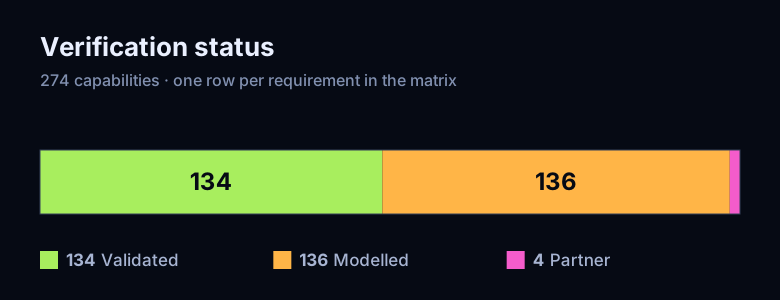
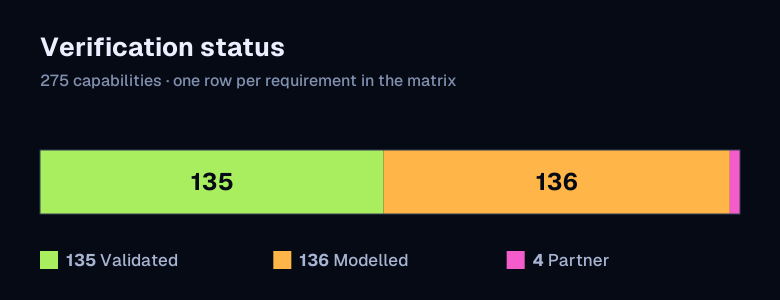
docs: regenerate the ledger, README counts, validation figures and provenance diagram for the SP3 clock row (275 rows: 135 VALIDATED / 136 MODELLED / 4 PARTNER)

diff --git a/README.md b/README.md
@@ -20,7 +20,7 @@
 <p align="center">
   <a href="https://github.com/ashfordeOU/kshana/actions/workflows/ci.yml"><img src="https://img.shields.io/github/actions/workflow/status/ashfordeOU/kshana/ci.yml?branch=main&event=push&label=CI&style=flat-square&labelColor=0A1226" height="18" alt="Continuous integration status on main"></a>
   <a href="docs/COVERAGE.md"><img src="https://img.shields.io/badge/coverage-~95%25-377D0C?style=flat-square&labelColor=0A1226" height="18" alt="Line coverage near 95 % of src/, measured in docs/COVERAGE.md and gated at 85 % in continuous integration"></a>
-  <a href="#evidence"><img src="https://img.shields.io/badge/validated-134%2F274-377D0C?style=flat-square&labelColor=0A1226" height="18" alt="134 of 274 capabilities VALIDATED against an independent external oracle, from the verification matrix"></a>
+  <a href="#evidence"><img src="https://img.shields.io/badge/validated-135%2F275-377D0C?style=flat-square&labelColor=0A1226" height="18" alt="135 of 275 capabilities VALIDATED against an independent external oracle, from the verification matrix"></a>
   <a href="https://sonarcloud.io/summary/overall?id=ashfordeOU_kshana"><img src="https://img.shields.io/sonar/quality_gate/ashfordeOU_kshana?server=https%3A%2F%2Fsonarcloud.io&label=quality&style=flat-square&labelColor=0A1226" height="18" alt="SonarQube Cloud quality gate status"></a>
   <a href="https://github.com/ashfordeOU/kshana/releases"><img src="https://img.shields.io/badge/release-v0.35.0-066A86?style=flat-square&labelColor=0A1226" height="18" alt="Release v0.35.0"></a>
   <a href="LICENSE"><img src="https://img.shields.io/badge/licence-AGPL--3.0-3F4B67?style=flat-square&labelColor=0A1226" height="18" alt="Licence: AGPL-3.0-only"></a>
@@ -133,7 +133,7 @@ them, and you can pin up to four runs and compare them side by side.
 <picture>
   <source media="(prefers-color-scheme: dark)" srcset="docs/assets/readme/studio/studio-home-dark.jpg">
   <source media="(prefers-color-scheme: light)" srcset="docs/assets/readme/studio/studio-home-light.jpg">
-  <img src="docs/assets/readme/studio/studio-home-light.jpg" alt="Kshana Studio, Simple view, opening screen, titled What would you like to find out?, with the engine v0.35.0 live and, in the top bar, three links: Training debrief, Interference map and Receiver trust. Four questions: how many satellites can I see anywhere on Earth, can I trust my position fix, how long can a clock keep time without satellites, and what does a jammer do to my receiver. Below the first, its recorded result: at least 22 satellites in view at every place and 31 on average with GPS, Galileo, BeiDou and GLONASS together, a fix possible at 100 % of places and times, on a world map of satellites in view, with an Open this result button. Beside it, Everything Kshana can do: 16 areas and 139 ready-to-run scenarios, each tile with a small chart from a recorded run and its share of validated methods, and the ledger's 134 of 274 capabilities validated." width="100%">
+  <img src="docs/assets/readme/studio/studio-home-light.jpg" alt="Kshana Studio, Simple view, opening screen, titled What would you like to find out?, with the engine v0.35.0 live and, in the top bar, three links: Training debrief, Interference map and Receiver trust. Four questions: how many satellites can I see anywhere on Earth, can I trust my position fix, how long can a clock keep time without satellites, and what does a jammer do to my receiver. Below the first, its recorded result: at least 22 satellites in view at every place and 31 on average with GPS, Galileo, BeiDou and GLONASS together, a fix possible at 100 % of places and times, on a world map of satellites in view, with an Open this result button. Beside it, Everything Kshana can do: 16 areas and 139 ready-to-run scenarios, each tile with a small chart from a recorded run and its share of validated methods, and the ledger's 135 of 275 capabilities validated." width="100%">
 </picture>
 
 <picture>
@@ -521,7 +521,7 @@ start from.
 
 <p><a href="docs/SGP4-VALIDATION.md"><img src="https://img.shields.io/badge/SGP4-666%2F666%20AIAA%20vectors%20%C2%B7%20worst%204.12%20mm-377D0C?style=flat-square&labelColor=0A1226" alt="SGP4 checked against all 666 AIAA 2006-6753 reference vectors, worst position error 4.12 mm"></a></p>
 
-<strong>134 of 274</strong> capabilities validated against independent external oracles; 136 honestly labelled Modelled.
+<strong>135 of 275</strong> capabilities validated against independent external oracles; 136 honestly labelled Modelled.
 Each row of the verification matrix names a capability, the oracle it is checked against,
 the test that runs the check, and the label that follows. Continuous integration (CI) makes
 it impossible to call a capability VALIDATED without an independent external oracle.
@@ -529,12 +529,12 @@ it impossible to call a capability VALIDATED without an independent external ora
 <picture>
   <source media="(prefers-color-scheme: dark)" srcset="docs/assets/readme/flow-verification-dark.svg">
   <source media="(prefers-color-scheme: light)" srcset="docs/assets/readme/flow-verification-light.svg">
-  <img src="docs/assets/readme/flow-verification-light.svg" alt="How a capability earns its label. Each row of the verification matrix names a capability, the oracle it is checked against, the test that runs the check in continuous integration, and the label that follows. A row may be VALIDATED only with an independent external oracle; otherwise it is MODELLED, or PARTNER when a hardware partner owns it. Example: SGP4/SDP4, Cowell 6-DOF + perturbations, batch/sequential OD, oracle AIAA 2006-6753 SGP4 verification vectors, test tests/sgp4_verification.rs, label VALIDATED. Live counts: 134 VALIDATED, 136 MODELLED, 4 PARTNER of 274 rows. In all, 134 capabilities validated against independent external oracles; 136 more are honestly labelled MODELLED and 4 are PARTNER-owned." width="100%">
+  <img src="docs/assets/readme/flow-verification-light.svg" alt="How a capability earns its label. Each row of the verification matrix names a capability, the oracle it is checked against, the test that runs the check in continuous integration, and the label that follows. A row may be VALIDATED only with an independent external oracle; otherwise it is MODELLED, or PARTNER when a hardware partner owns it. Example: SGP4/SDP4, Cowell 6-DOF + perturbations, batch/sequential OD, oracle AIAA 2006-6753 SGP4 verification vectors, test tests/sgp4_verification.rs, label VALIDATED. Live counts: 135 VALIDATED, 136 MODELLED, 4 PARTNER of 275 rows. In all, 135 capabilities validated against independent external oracles; 136 more are honestly labelled MODELLED and 4 are PARTNER-owned." width="100%">
 </picture>
 
 | Label | Rows | Meaning |
 |---|---|---|
-| VALIDATED | 134 | an independent external oracle agrees: real data, an independent implementation or published reference vectors |
+| VALIDATED | 135 | an independent external oracle agrees: real data, an independent implementation or published reference vectors |
 | MODELLED | 136 | checked against analytic truth or simulation self-consistency, and said out loud |
 | PARTNER | 4 | owned by a hardware partner; Kshana holds no oracle for it |
 
@@ -544,7 +544,7 @@ model to 0.08 m against Orekit 12.2; Galileo to 0.61 m and Swarm-A to 0.10 m aga
 precise ephemerides of the European Space Agency (ESA). Tests hold near 95 % line coverage of
 `src/`, gated at 85 % in CI. The ledger is
 [`docs/VERIFICATION-MATRIX.md`](docs/VERIFICATION-MATRIX.md), generated from
-`src/verification.rs`: the [full 274-row matrix](docs/VERIFICATION-MATRIX.md), and why each
+`src/verification.rs`: the [full 275-row matrix](docs/VERIFICATION-MATRIX.md), and why each
 Modelled row has no external oracle in [`docs/MODELLED-RATIONALE.md`](docs/MODELLED-RATIONALE.md).
 
 <details>
@@ -566,7 +566,7 @@ Modelled row has no external oracle in [`docs/MODELLED-RATIONALE.md`](docs/MODEL
 ### Validation at a glance
 
 Every row is enforced by a named test in CI. This table is a **curated highlight**;
-the full machine-checked matrix is **274 rows — 134 VALIDATED, 136 MODELLED, 4 PARTNER**
+the full machine-checked matrix is **275 rows — 135 VALIDATED, 136 MODELLED, 4 PARTNER**
 (`src/verification.rs`), with the complete evidence (and what is honestly *not* yet
 validated) in [`docs/VALIDATION.md`](docs/VALIDATION.md) and the per-release
 [`kshana-validation-summary.html`](https://github.com/ashfordeOU/kshana/releases)
@@ -618,20 +618,20 @@ The **Status** column states the *kind* of evidence, matching the validation lad
 | CI | Test coverage | **~95 % line** on `src/` excluding `src/*_data.rs` and `src/main.rs`, gated ≥ 85 % | cargo-tarpaulin (LLVM engine) |
 
 <p align="center">
-  <img src="docs/assets/diagrams/validation-provenance.png" alt="How a capability earns its label: Requirement maps to a module in src, to a test in tests, to an external oracle (real dataset, independent reference implementation, or published vectors), to a status — with a CI-enforced guard that no capability can be Validated without an external oracle. Live counts: 134 Validated, 136 Modelled, 4 Partner, 274 total" width="900">
+  <img src="docs/assets/diagrams/validation-provenance.png" alt="How a capability earns its label: Requirement maps to a module in src, to a test in tests, to an external oracle (real dataset, independent reference implementation, or published vectors), to a status — with a CI-enforced guard that no capability can be Validated without an external oracle. Live counts: 135 Validated, 136 Modelled, 4 Partner, 275 total" width="900">
   <br><sub>How a capability earns its label — the CI-enforced invariant: no external oracle ⇒ cannot be Validated · <a href="docs/assets/diagrams/validation-provenance.svg">SVG</a></sub>
 </p>
 
 <p align="center">
-  <img src="docs/assets/figures/oracle-kind-stacked.png" alt="How each claim is backed: the Validated column is 134 of 134 ExternalDataset by construction (CI-enforced); Modelled rows are honestly tagged InternalConsistency, ReferenceImpl, or ExternalDataset; Partner rows have no Kshana oracle" width="62%">
+  <img src="docs/assets/figures/oracle-kind-stacked.png" alt="How each claim is backed: the Validated column is 135 of 135 ExternalDataset by construction (CI-enforced); Modelled rows are honestly tagged InternalConsistency, ReferenceImpl, or ExternalDataset; Partner rows have no Kshana oracle" width="62%">
   <br>
   <img src="docs/assets/figures/sgp4-regime-bars.png" alt="SGP4/SDP4 worst-case position error vs the AIAA 2006-6753 reference by regime, log scale: every regime is far below the AIAA tolerance, worst case 4.12 mm in the deep-space non-resonant regime" width="96%">
   <br><sub>Top: every Validated row is backed by an external dataset, by construction. Bottom: SGP4 matches the official reference in every regime (worst 4.12 mm). <a href="docs/assets/figures/oracle-kind-stacked.svg">SVG</a> · <a href="docs/assets/figures/sgp4-regime-bars.svg">SVG</a></sub>
 </p>
 
 <p align="center">
-  <img src="docs/assets/figures/validation-breakdown.png" alt="Verification status across all 274 capabilities: 134 Validated (checked vs external oracle), 136 Modelled, 4 Partner-owned" width="780">
-  <br><sub>134 Validated · 136 Modelled · 4 Partner — <a href="docs/assets/figures/validation-breakdown.svg">SVG</a></sub>
+  <img src="docs/assets/figures/validation-breakdown.png" alt="Verification status across all 275 capabilities: 135 Validated (checked vs external oracle), 136 Modelled, 4 Partner-owned" width="780">
+  <br><sub>135 Validated · 136 Modelled · 4 Partner — <a href="docs/assets/figures/validation-breakdown.svg">SVG</a></sub>
 </p>
 
 </details>
@@ -725,7 +725,7 @@ top as a separate overlay that depends on the engine and never forks it.
 <picture>
   <source media="(prefers-color-scheme: dark)" srcset="docs/assets/readme/architecture-dark.svg">
   <source media="(prefers-color-scheme: light)" srcset="docs/assets/readme/architecture-light.svg">
-  <img src="docs/assets/readme/architecture-light.svg" alt="Kshana's architecture: one open engine at the centre, kshana 0.35.0 under the AGPL-3.0, with api::run_toml, a typed dispatch over 76 kinds, and the verification ledger of 274 capabilities (134 VALIDATED, 136 MODELLED, 4 PARTNER). Around it, every surface runs the same engine: Command line (cargo install kshana); Rust library (cargo add kshana); Python (pip install kshana); WebAssembly + Kshana Studio (npm install kshana); MCP server (cargo install kshana-mcp); Docker image (ghcr.io/ashfordeou/kshana-mcp); JetBrains plugin (Marketplace: &quot;Kshana&quot;). Below it, Kshana Pro, a proprietary overlay that depends on the open engine as a library and never forks it, and adds no physical model." width="100%">
+  <img src="docs/assets/readme/architecture-light.svg" alt="Kshana's architecture: one open engine at the centre, kshana 0.35.0 under the AGPL-3.0, with api::run_toml, a typed dispatch over 76 kinds, and the verification ledger of 275 capabilities (135 VALIDATED, 136 MODELLED, 4 PARTNER). Around it, every surface runs the same engine: Command line (cargo install kshana); Rust library (cargo add kshana); Python (pip install kshana); WebAssembly + Kshana Studio (npm install kshana); MCP server (cargo install kshana-mcp); Docker image (ghcr.io/ashfordeou/kshana-mcp); JetBrains plugin (Marketplace: &quot;Kshana&quot;). Below it, Kshana Pro, a proprietary overlay that depends on the open engine as a library and never forks it, and adds no physical model." width="100%">
 </picture>
 
 <details>
@@ -734,7 +734,7 @@ top as a separate overlay that depends on the engine and never forks it.
 <picture>
   <source media="(prefers-color-scheme: dark)" srcset="docs/assets/readme/flow-architecture-dark.svg">
   <source media="(prefers-color-scheme: light)" srcset="docs/assets/readme/flow-architecture-light.svg">
-  <img src="docs/assets/readme/flow-architecture-light.svg" alt="Kshana's architecture in layers. Five front doors (command line, Python, JavaScript and WebAssembly, the MCP server and the JetBrains plugin) reach one api::run_toml, a typed dispatch over 76 kinds. Beneath it sit eight domain layers: time and frames, clocks and timing, inertial and fusion, GNSS and integrity, astrodynamics, LEO PNT, Moon, Mars and deep space, and missions and studies, on a shared core, all cross-referenced by the verification module, the machine-checked matrix of 274 capabilities that is the single source of truth for every label." width="100%">
+  <img src="docs/assets/readme/flow-architecture-light.svg" alt="Kshana's architecture in layers. Five front doors (command line, Python, JavaScript and WebAssembly, the MCP server and the JetBrains plugin) reach one api::run_toml, a typed dispatch over 76 kinds. Beneath it sit eight domain layers: time and frames, clocks and timing, inertial and fusion, GNSS and integrity, astrodynamics, LEO PNT, Moon, Mars and deep space, and missions and studies, on a shared core, all cross-referenced by the verification module, the machine-checked matrix of 275 capabilities that is the single source of truth for every label." width="100%">
 </picture>
 
 **One engine, many front doors.** A single Rust core (`kshana`) runs every scenario,

diff --git a/docs/VERIFICATION-MATRIX.md b/docs/VERIFICATION-MATRIX.md
@@ -2,7 +2,7 @@
 
 <!-- Generated by `cargo run --bin gen_validation_artifacts` from src/verification.rs; pinned by tests/verification_artifacts_doc_sync.rs. Do not edit by hand. -->
 
-The complete, machine-checked evidence ledger: **274 rows — 134 VALIDATED, 136 MODELLED, 4 PARTNER**. A row may be VALIDATED only with an independent external oracle (the matrix invariant tests enforce this). The same data, with clickable per-row links to each test, module and committed fixture, is the *Validation ledger* on https://kshana.dev. See [MODELLED-RATIONALE.md](MODELLED-RATIONALE.md) for why each Modelled row is not externally validated.
+The complete, machine-checked evidence ledger: **275 rows — 135 VALIDATED, 136 MODELLED, 4 PARTNER**. A row may be VALIDATED only with an independent external oracle (the matrix invariant tests enforce this). The same data, with clickable per-row links to each test, module and committed fixture, is the *Validation ledger* on https://kshana.dev. See [MODELLED-RATIONALE.md](MODELLED-RATIONALE.md) for why each Modelled row is not externally validated.
 
 | Requirement | Capability | Module | Tests | Oracle | Status |
 |---|---|---|---|---|---|
@@ -22,6 +22,7 @@ The complete, machine-checked evidence ledger: **274 rows — 134 VALIDATED, 136
 | Deep-space radiometric light-time solver | Retarded (down-leg) one-way light-time solution τ = |r_rx − r_target(t−τ)|/c for deep-space radiometric navigation (Earth→Mars/Sun/Moon) | radiometric (light_time_solution) | tests/deep_space_mars_radiometric_reference.rs (24 legs over 8 epochs 2020–2027 vs ANISE DE440; worst |Δτ| 1.03e-9 s, |Δrange| 0.31 m at up to 2.5 AU) | ANISE 0.10 (Nyx Space, MPL-2.0) converged-Newtonian aberration light time (Aberration::CN; SPICE spkapo-equivalent) over JPL DE440 — an independent Rust SPICE implementation; kshana's fixed-point retarded solver matched to sub-nanosecond. The broader Doppler / Shapiro / reduced-dynamic OD figures stay MODELLED | VALIDATED |
 | Broadcast-ephemeris satellite position (multi-GNSS RINEX) | IS-GPS-200 / Galileo-OS / BeiDou-OS broadcast-ephemeris Keplerian → ECEF satellite position from a parsed RINEX-3 navigation record | rinex (parse_nav, RinexEphemeris::sv_position_ecef) | tests/rinex_sp3_interop_reference.rs (84 SV-epoch cases: GPS + Galileo + BeiDou-MEO, 12 SVs × 7 offsets, vs RTKLIB eph2pos; worst per-axis |Δ| 6.2e-8 m) | RTKLIB v2.4.2-p13 eph2pos() compiled from C source (T. Takasu, BSD-2-Clause) — an independent IS-GPS-200/SIS-ICD implementation, fed the identical RINEX-3 nav records; satellite ECEF position matched to ~62 nm. (SP3 precise-ephemeris interpolation is validated separately — see 'SP3 precise-ephemeris interpolation') | VALIDATED |
 | SP3 precise-ephemeris interpolation | IGS-standard Lagrange interpolation of SP3 precise-ephemeris satellite positions with the per-node Earth-rotation correction (rotate each node by ω⊕·(t_node−t) into the query instant's Earth-fixed frame before the polynomial fit) | sp3 (Sp3Interpolator::position_ecef) | tests/sp3_interp_reference.rs (72 off-node SV-epoch cases / 6 satellites vs RTKLIB peph2pos; worst per-axis |Δ| 1.5e-8 m) | RTKLIB peph2pos() compiled from C source (preceph.c; T. Takasu, BSD-2-Clause) — the de-facto IGS reference, an independent implementation; kshana's interpolator (now carrying the same Earth-rotation node correction) matched to ~15 nm on a real SP3 product, down from ~5.5 cm before the correction | VALIDATED |
+| SP3 precise-clock interpolation | Satellite clock offset between the tabulated SP3 clock nodes by linear interpolation over the two bracketing valid nodes (the RTKLIB pephclk scheme; bad-clock sentinel skipped), and the same nodes fed to the precise-product chain as RINEX-clock-equivalent records | sp3 (Sp3File::clock_s, clock_nodes), precise_products (ClockRinex::from_sp3) | tests/sp3_clock_igs_oracle.rs (IGS final 15 min SP3 of 2025-02-24 vs the IGS final 30 s clocks, 32 GPS satellites: node median |Δ| 2.6e-13 s; 3038 mid-point records RMS 0.121 ns, p95 0.265 ns; holding the node instead 4.24 ns RMS); sp3::tests::clock_interpolation_is_linear_between_valid_nodes_and_exact_at_them | IGS final 30 s satellite clock combination (IGS0OPSFIN 30S CLK, 2025-02-24): published clock estimates at the query instants, not interpolated from the SP3; bars pre-registered in tests/fixtures/sp3_clock_igs_oracle/PREREGISTRATION.md before the first run (RMS 0.15 ns, p95 0.30 ns, node median 1e-12 s, discrimination 2x) | VALIDATED |
 | Strapdown INS mechanization | Quaternion-attitude, WGS-84 NED strapdown inertial mechanization (coning/sculling-compensated) propagating a navigation state from (Δθ, Δv) increments | inertial::mechanization, inertial::attitude, inertial::imu_errors | tests/classical_strapdown_ins_reference.rs (static/turn/coning profiles, 30 epochs each, vs NaveGo: attitude bit-identical 0 rad; velocity/position within named analytic bounds) | NaveGo v1.4 (R. Gonzalez et al., LGPL-3) run under Octave — an independent published INS toolbox driven by the identical (Δθ,Δv) increment stream. Attitude matches bit-for-bit (same NED / scalar-first-quaternion / Earth-rate / transport-rate conventions); velocity/position agree to two documented differences — the deflection-of-vertical north-gravity term NaveGo includes and kshana omits by design (plumb-bob gravity; matched to the Groves closed form to every digit, with a sanity-floor assert) and O(dt²) integrator differences — not mechanization errors | VALIDATED |
 | Gravity-field functional synthesis (gravity-aided / GNSS-free nav map) | Spherical-harmonic gravity magnitude + disturbance (mGal) from any ICGEM .gfc model; GRS80 normal gravity | gravity_sh | tests/icgem_gravity_reference.rs (GRS80 synthesis reproduces Somigliana to 3.5e-12; real ICGEM EGM2008 disturbance map physical) | GRS80 (Moritz 1980, IAG) Somigliana normal gravity + published γ_e/γ_p; real ICGEM EGM2008 field | VALIDATED |
 | Lambert two-body transfer solver | Izzo-2015 single-revolution Lambert solver (r1, r2, time-of-flight → boundary velocities) across LEO→GEO→heliocentric transfers, prograde and retrograde | maneuver (lambert) | tests/lambert_reference.rs (13 transfers vs lamberthub izzo2015; worst |Δv| 7e-12 m/s) | lamberthub 1.0.0 izzo2015 (J. Martínez Garrido, MIT) — an independent third-party Lambert solver. The single-revolution (M=0) Lambert problem has a unique solution, so library-vs-library agreement is a genuine external check; matched to <1e-4 m/s (observed ~1e-11), the same kind of validation DOP gets vs gnss_lib_py | VALIDATED |
@@ -281,4 +282,4 @@ The complete, machine-checked evidence ledger: **274 rows — 134 VALIDATED, 136
 | Compliance mapping to public frameworks | compliance (kshana compliance-report): a mapping from Kshana outputs to clauses of public frameworks by number only, filled from the runs given; a result counts for a capability only when it carries the evidence the mapping names, an empty set evidences nothing, and the wording is "supports evidence for"; the report is not a finding that any framework is met and not a rating or approval by anyone. | compliance | tests/compliance_report.rs::mapping_is_well_formed; tests/compliance_report.rs::wording_rule_holds_in_mapping_report_and_docs; tests/compliance_report.rs::empty_set_evidences_nothing; tests/compliance_report.rs::statuses_follow_the_runs_present; tests/compliance_references.rs | References checked against a script-extracted heading index of the cited public documents read 2026-10-10 (tests/compliance_references.rs). WHAT IS CHECKED: 49 cited clause, section, paragraph or heading references exist in the cited document, and 7 cited URLs resolved on the recorded date (2 via a second route); negative controls fail. WHAT IS NOT: that any paraphrase, mapping or gap is correct; EN 16803 clauses (paid, catalogue text only); later revisions; the index is not an independent implementation. | MODELLED |
 | Marine integrations: Signal K plugin, OpenCPN gate stream and score panel, reference build | The trust score, band, reasons, gate state and receiver-reported position published under navigation.gnss.kshana in a Signal K server with a warn, alarm and normal notification (integrations/signalk); the gated NMEA stream, with the fix marked invalid while trust is collapsed and a PKSHT sentence per cycle, served to OpenCPN over TCP by the gate itself or by a small relay, and a native OpenCPN score panel that reads the PKSHT sentence (integrations/opencpn); and systemd units and a container that run the gate (deploy/reference-build). Where these show output they carry the advisory statement: Advisory software, not type-approved navigation equipment (IEC 61108, IEC 61162): the operator remains responsible for the navigation of the vessel. | receiver_trust (live: the gate, its TCP listener, PKSHT); outside the crate: integrations/signalk (JavaScript), integrations/opencpn (JavaScript relay, C++ native plugin), deploy/reference-build (systemd units, container) | tests/receiver_trust_live_cli.rs (the gate and its TCP listener, Rust side); integrations/signalk/test/adapter.test.js, integrations/signalk/test/model.test.js and integrations/signalk/test/plugin.test.js (24 Node tests on recorded synthetic output); integrations/opencpn/test/relay.test.mjs (5 Node tests); integrations/opencpn/test/e2e-live.mjs (the real binary to a TCP consumer, run by hand and in CI); integrations/opencpn/plugin/test/pksht_test.cpp and integrations/opencpn/plugin/test/trust_state_test.cpp (C++ checks of the PKSHT parser and the panel state); deploy/reference-build/check-units.sh and deploy/reference-build/test-entrypoint.sh | WHAT IS CHECKED, stated narrowly: that these integrations work against the real software they are written for. EVIDENCE is committed at integrations/signalk/evidence/README.md (with its JSON files) and integrations/opencpn/evidence/README.md (with its screenshots and logs), each with the script that reproduces it. (1) Signal K: the plugin loaded into the pinned signalk-server 2.33.0 npm package, in a private loopback-only network namespace, fed synthetic data. The server's own REST and WebSocket interfaces showed the published paths, the score metadata, and a notification that went absent, warn, alarm, normal (after the hold) and warn again when the data stopped. With the real kshana run by the plugin on the NMEA the server itself received, the notification went warn then alarm and the reported position was published; the server's own navigation.position was written by its NMEA provider, never by the plugin. Re-run against live JSON schema 1.2. (2) OpenCPN: the plugin built against the OpenCPN plugin API header and wxWidgets 3.2.4, loaded into the Ubuntu 24.04 package of OpenCPN 5.8.4 under a virtual display; OpenCPN loaded it, ran its initialisation and handed it the PKSHT sentences of the gated stream, and the panel turned red on the untrusted band. In one clean run, OpenCPN's own ship position stopped updating, and its fix indicator dropped, when the gate marked the fix invalid. A second run fed directly by the gate's TCP listener showed delivery to the plugin but not a clean before-and-after. (3) The relay tests replay a recorded excerpt of the gated stream through a real TCP socket and check what a consumer receives (the bytes unchanged, valid checksums on every sentence including the rewritten ones, GGA and RMC agreeing, one PKSHT per cycle with the gate field where the fix is invalid), and the end-to-end script checks that a consumer of the gate's listener receives exactly the bytes the same gate writes to standard output. (4) The PKSHT parsers (JavaScript and C++) are run over sentences recorded from kshana output and reject a wrong checksum, version or a score outside 0 to 100. (5) The systemd units are checked with systemd-analyze verify (systemd 255, binaries stubbed) and with guards for a shell in ExecStart, the restart policy and the sandbox keys; the container entrypoint's argument handling is checked with a stub binary. WHAT IS NOT: there is no external oracle for any value these integrations show. The trust values themselves are the rows above, and an integration run shows only that the plumbing carries them; that is why this row is MODELLED and not VALIDATED (docs/VALIDATION.md). No real vessel, receiver, long run, other version of either host, other operating system or desktop was used; all data are synthetic text and nothing here is a measurement. The notification's sound and visual handling by a real Signal K client, OpenCPN's toolbar button, preferences and stale state, and packaging for the OpenCPN plugin manager were not exercised. The systemd sandbox keys were checked for syntax only, not run under a live systemd, and the container image build and its health check have no committed evidence here. No detection or false-alarm figure is claimed. Advisory software, not type-approved navigation equipment (IEC 61108, IEC 61162): the operator remains responsible for the navigation of the vessel. | MODELLED |
 
-274 rows: 134 externally validated, 136 modelled, 4 partner-owned.
+275 rows: 135 externally validated, 136 modelled, 4 partner-owned.

diff --git a/README.crates.md b/README.crates.md
@@ -17,7 +17,7 @@
 
 <p align="center">
   <a href="https://github.com/AshfordeOU/kshana/releases"><img src="https://img.shields.io/badge/release-v0.35.0-066A86?style=flat-square&labelColor=0A1226" alt="Release v0.35.0"></a>
-  <a href="https://github.com/AshfordeOU/kshana/blob/main/docs/VERIFICATION-MATRIX.md"><img src="https://img.shields.io/badge/validated-134%20external%20oracles-377D0C?style=flat-square&labelColor=0A1226" alt="134 of 274 capabilities validated against independent external oracles"></a>
+  <a href="https://github.com/AshfordeOU/kshana/blob/main/docs/VERIFICATION-MATRIX.md"><img src="https://img.shields.io/badge/validated-135%20external%20oracles-377D0C?style=flat-square&labelColor=0A1226" alt="135 of 275 capabilities validated against independent external oracles"></a>
   <a href="https://github.com/AshfordeOU/kshana/blob/main/docs/COVERAGE.md"><img src="https://img.shields.io/badge/coverage-~95%25-377D0C?style=flat-square&labelColor=0A1226" alt="About 95% line coverage, gated at 85% in continuous integration"></a>
   <a href="https://github.com/AshfordeOU/kshana/blob/main/LICENSE"><img src="https://img.shields.io/badge/licence-AGPL--3.0--only-3F4B67?style=flat-square&labelColor=0A1226" alt="Licence: AGPL-3.0-only, or a commercial licence"></a>
   <a href="https://doi.org/10.5281/zenodo.20528627"><img src="https://img.shields.io/badge/DOI-10.5281%2Fzenodo.20528627-7E4B00?style=flat-square&labelColor=0A1226" alt="DOI 10.5281/zenodo.20528627"></a>
@@ -40,7 +40,7 @@ engine in your browser, compiled to WebAssembly, and uploads nothing.
 
 ## Evidence
 
-**134 of 274** capabilities validated against independent external oracles; 136 honestly labelled Modelled, 4 partner-owned.
+**135 of 275** capabilities validated against independent external oracles; 136 honestly labelled Modelled, 4 partner-owned.
 Each capability carries one label in a machine-checked ledger: VALIDATED (an independent
 external oracle agrees: real data, an independent implementation or published reference
 vectors), MODELLED (internally consistent, and said out loud) or PARTNER (a hardware partner
@@ -51,7 +51,7 @@ Cowell force model to 0.08 m against Orekit 12.2.
 <p align="center">
 <picture>
   <source media="(prefers-color-scheme: dark)" srcset="https://raw.githubusercontent.com/AshfordeOU/kshana/main/docs/assets/readme/flow-verification-dark.svg">
-  <img src="https://raw.githubusercontent.com/AshfordeOU/kshana/main/docs/assets/readme/flow-verification-light.svg" alt="How a capability earns its label: capability, oracle, test, ledger label. The verification status across all 274 capabilities: 134 Validated, 136 Modelled, 4 Partner-owned" width="100%">
+  <img src="https://raw.githubusercontent.com/AshfordeOU/kshana/main/docs/assets/readme/flow-verification-light.svg" alt="How a capability earns its label: capability, oracle, test, ledger label. The verification status across all 275 capabilities: 135 Validated, 136 Modelled, 4 Partner-owned" width="100%">
 </picture>
 </p>
 

diff --git a/README.npm.md b/README.npm.md
@@ -18,7 +18,7 @@
 
 <p align="center">
   <a href="https://github.com/AshfordeOU/kshana/releases"><img src="https://img.shields.io/badge/release-v0.35.0-066A86?style=flat-square&labelColor=0A1226" alt="Release v0.35.0"></a>
-  <a href="https://github.com/AshfordeOU/kshana/blob/main/docs/VERIFICATION-MATRIX.md"><img src="https://img.shields.io/badge/validated-134%20external%20oracles-377D0C?style=flat-square&labelColor=0A1226" alt="134 of 274 capabilities validated against independent external oracles"></a>
+  <a href="https://github.com/AshfordeOU/kshana/blob/main/docs/VERIFICATION-MATRIX.md"><img src="https://img.shields.io/badge/validated-135%20external%20oracles-377D0C?style=flat-square&labelColor=0A1226" alt="135 of 275 capabilities validated against independent external oracles"></a>
   <a href="https://github.com/AshfordeOU/kshana/blob/main/docs/COVERAGE.md"><img src="https://img.shields.io/badge/coverage-~95%25-377D0C?style=flat-square&labelColor=0A1226" alt="About 95% line coverage, gated at 85% in continuous integration"></a>
   <a href="https://github.com/AshfordeOU/kshana/blob/main/LICENSE"><img src="https://img.shields.io/badge/licence-AGPL--3.0--only-3F4B67?style=flat-square&labelColor=0A1226" alt="Licence: AGPL-3.0-only, or a commercial licence"></a>
   <a href="https://doi.org/10.5281/zenodo.20528627"><img src="https://img.shields.io/badge/DOI-10.5281%2Fzenodo.20528627-7E4B00?style=flat-square&labelColor=0A1226" alt="DOI 10.5281/zenodo.20528627"></a>
@@ -41,7 +41,7 @@ engine in your browser, compiled to WebAssembly, and uploads nothing.
 
 ## Evidence
 
-**134 of 274** capabilities validated against independent external oracles; 136 honestly labelled Modelled, 4 partner-owned.
+**135 of 275** capabilities validated against independent external oracles; 136 honestly labelled Modelled, 4 partner-owned.
 Each capability carries one label in a machine-checked ledger: VALIDATED (an independent
 external oracle agrees: real data, an independent implementation or published reference
 vectors), MODELLED (internally consistent, and said out loud) or PARTNER (a hardware partner
@@ -52,7 +52,7 @@ Cowell force model to 0.08 m against Orekit 12.2.
 <p align="center">
 <picture>
   <source media="(prefers-color-scheme: dark)" srcset="https://raw.githubusercontent.com/AshfordeOU/kshana/main/docs/assets/readme/flow-verification-dark.svg">
-  <img src="https://raw.githubusercontent.com/AshfordeOU/kshana/main/docs/assets/readme/flow-verification-light.svg" alt="How a capability earns its label: capability, oracle, test, ledger label. The verification status across all 274 capabilities: 134 Validated, 136 Modelled, 4 Partner-owned" width="100%">
+  <img src="https://raw.githubusercontent.com/AshfordeOU/kshana/main/docs/assets/readme/flow-verification-light.svg" alt="How a capability earns its label: capability, oracle, test, ledger label. The verification status across all 275 capabilities: 135 Validated, 136 Modelled, 4 Partner-owned" width="100%">
 </picture>
 </p>
 

diff --git a/README.pypi.md b/README.pypi.md
@@ -17,7 +17,7 @@
 
 <p align="center">
   <a href="https://github.com/AshfordeOU/kshana/releases"><img src="https://img.shields.io/badge/release-v0.35.0-066A86?style=flat-square&labelColor=0A1226" alt="Release v0.35.0"></a>
-  <a href="https://github.com/AshfordeOU/kshana/blob/main/docs/VERIFICATION-MATRIX.md"><img src="https://img.shields.io/badge/validated-134%20external%20oracles-377D0C?style=flat-square&labelColor=0A1226" alt="134 of 274 capabilities validated against independent external oracles"></a>
+  <a href="https://github.com/AshfordeOU/kshana/blob/main/docs/VERIFICATION-MATRIX.md"><img src="https://img.shields.io/badge/validated-135%20external%20oracles-377D0C?style=flat-square&labelColor=0A1226" alt="135 of 275 capabilities validated against independent external oracles"></a>
   <a href="https://github.com/AshfordeOU/kshana/blob/main/docs/COVERAGE.md"><img src="https://img.shields.io/badge/coverage-~95%25-377D0C?style=flat-square&labelColor=0A1226" alt="About 95% line coverage, gated at 85% in continuous integration"></a>
   <a href="https://github.com/AshfordeOU/kshana/blob/main/LICENSE"><img src="https://img.shields.io/badge/licence-AGPL--3.0--only-3F4B67?style=flat-square&labelColor=0A1226" alt="Licence: AGPL-3.0-only, or a commercial licence"></a>
   <a href="https://doi.org/10.5281/zenodo.20528627"><img src="https://img.shields.io/badge/DOI-10.5281%2Fzenodo.20528627-7E4B00?style=flat-square&labelColor=0A1226" alt="DOI 10.5281/zenodo.20528627"></a>
@@ -40,7 +40,7 @@ engine in your browser, compiled to WebAssembly, and uploads nothing.
 
 ## Evidence
 
-**134 of 274** capabilities validated against independent external oracles; 136 honestly labelled Modelled, 4 partner-owned.
+**135 of 275** capabilities validated against independent external oracles; 136 honestly labelled Modelled, 4 partner-owned.
 Each capability carries one label in a machine-checked ledger: VALIDATED (an independent
 external oracle agrees: real data, an independent implementation or published reference
 vectors), MODELLED (internally consistent, and said out loud) or PARTNER (a hardware partner
@@ -51,7 +51,7 @@ Cowell force model to 0.08 m against Orekit 12.2.
 <p align="center">
 <picture>
   <source media="(prefers-color-scheme: dark)" srcset="https://raw.githubusercontent.com/AshfordeOU/kshana/main/docs/assets/readme/flow-verification-dark.svg">
-  <img src="https://raw.githubusercontent.com/AshfordeOU/kshana/main/docs/assets/readme/flow-verification-light.svg" alt="How a capability earns its label: capability, oracle, test, ledger label. The verification status across all 274 capabilities: 134 Validated, 136 Modelled, 4 Partner-owned" width="100%">
+  <img src="https://raw.githubusercontent.com/AshfordeOU/kshana/main/docs/assets/readme/flow-verification-light.svg" alt="How a capability earns its label: capability, oracle, test, ledger label. The verification status across all 275 capabilities: 135 Validated, 136 Modelled, 4 Partner-owned" width="100%">
 </picture>
 </p>
 
